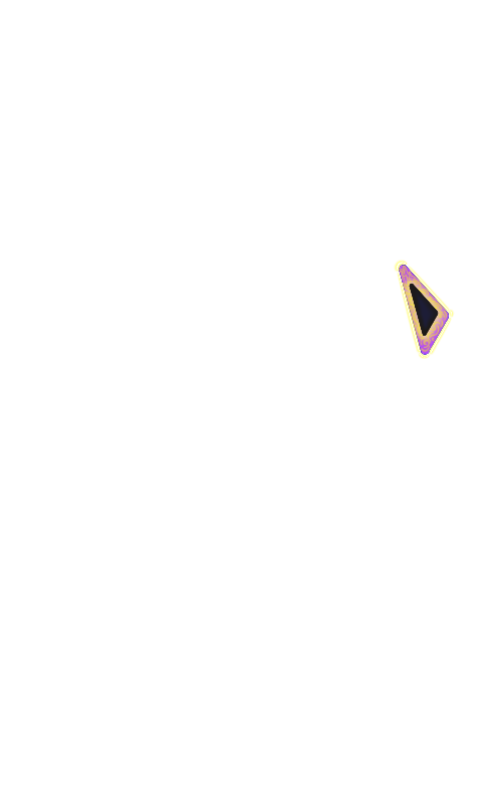
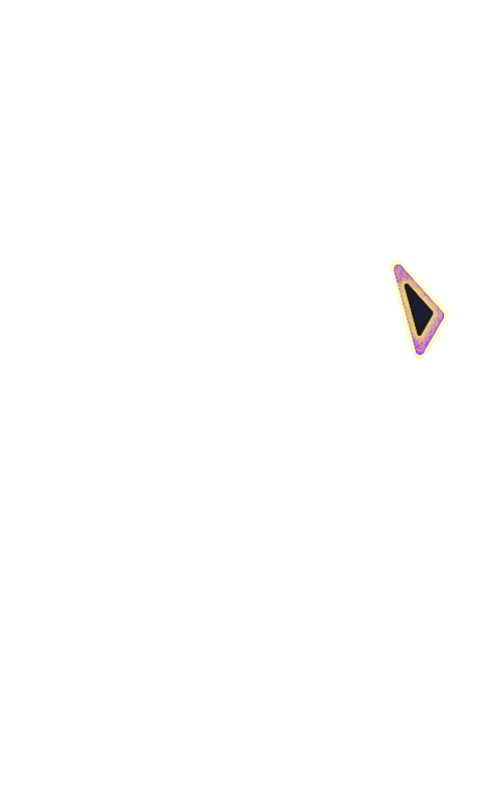
adjesuted tringle top right

Changed region(s): [[0.78, 0.3125, 0.9, 0.4688]]

diff --git a/Source/ModuleGame.cpp b/Source/ModuleGame.cpp
@@ -411,7 +411,7 @@ void ModuleGame::CreateWorld() {
 	//triangles
 	entities.emplace_back(new Triangle(App->physics, -5, 0, triangle1, 10, this, triangle1Tex));
 	entities.emplace_back(new Triangle(App->physics, 0, 0, triangle2, 10, this, triangle2Tex));
-	entities.emplace_back(new Triangle(App->physics, 0, 0, triangle3, 10, this, triangle3Tex));
+	entities.emplace_back(new Triangle(App->physics, -5, 0, triangle3, 10, this, triangle3Tex));
 	entities.emplace_back(new Triangle(App->physics, 0, 0, triangle4, 10, this, triangle4Tex));
 
 	//flippers
